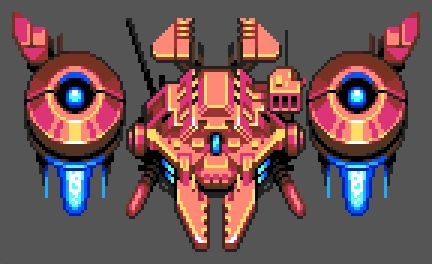
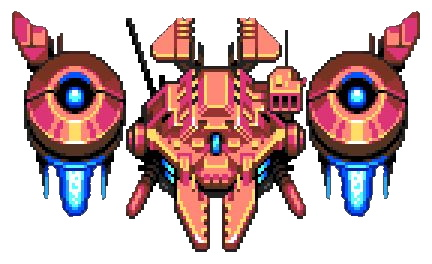
a

diff --git a/core/src/com/mygdx/game/characters/monster/boss/Boss1.java b/core/src/com/mygdx/game/characters/monster/boss/Boss1.java
@@ -10,19 +10,20 @@ import com.mygdx.game.characters.monster.Monster;
 public class Boss1 extends Monster {
 
     public Boss1(int x, int y, MyGdxGame gdx){
-        super(x,y,2,0 , 30, new Texture("mediumMonster.png"), 2 , 30,10 ,gdx,20);
+        super(x,y,2,0 , 30, new Texture("boss1.png"), 2 , 30,10 ,gdx,20);
     }
 
     @Override
     public Bullet[] tirer() {
         Bullet[] BB = new Bullet[2];
-        BB[0] = new BulletBoss1(this.x , this.y, 5, 8);
-        BB[1] = new BulletBoss1(this.x + (texture.getWidth()/2), this.y, -5, 8);
+        BB[0] = new BulletBoss1(this.x + 25 , this.y +(texture.getHeight()/2), 5, -8);
+        BB[1] = new BulletBoss1(this.x + (texture.getWidth() /2)  +50, this.y +(texture.getHeight()/2), -5, -8);
         return BB;
     }
 
     public void update(){
-        if(this.x <= Gdx.graphics.getWidth() || this.x >= Gdx.graphics.getWidth()){
+        this.x += this.xspeed;
+        if(this.x >= Gdx.graphics.getWidth() - getTaillex() || this.x <= 0){
             this.xspeed = -this.xspeed;
         }
     }

diff --git a/core/src/com/mygdx/game/Playinggame.java b/core/src/com/mygdx/game/Playinggame.java
@@ -8,6 +8,7 @@ import com.mygdx.game.characters.monster.MediumMonster;
 import com.mygdx.game.characters.monster.Monster;
 import com.mygdx.game.characters.monster.MonstreJaponais;
 import com.mygdx.game.characters.monster.SmallMonster;
+import com.mygdx.game.characters.monster.boss.Boss1;
 import com.mygdx.game.powerUp.powerUp;
 
 import java.util.LinkedHashSet;
@@ -115,6 +116,7 @@ public class Playinggame {
                 else if (rand <= 100) {
                     m.add(new MonstreJaponais((Gdx.graphics.getWidth() - ((nbmonster-nbmonstertemp + 1) * (Gdx.graphics.getWidth() / (nbmonster + 1)))), Gdx.graphics.getHeight()-100, this.gdx));
                 }
+                //m.add(new Boss1(700, 800, this.gdx));
                 nbmonstertemp--;
             }
 

diff --git a/core/src/com/mygdx/game/bullet/Enemy/boss/BulletBoss1.java b/core/src/com/mygdx/game/bullet/Enemy/boss/BulletBoss1.java
@@ -8,11 +8,24 @@ public class BulletBoss1  extends BulletEnnemi {
     private int xdep;
 
     public BulletBoss1(int x, int y, int xspeed, int yspeed){
-        super(2,x,y,xspeed,yspeed,new Texture("laserRedShot.png"), 50);
+        super(2,x,y,xspeed,yspeed,new Texture("bulletBoss1.png"), 50);
         this.xdep = x;
     }
 
     public int getXdep() {
         return xdep;
+    }
+
+    @Override
+    public void updateBullet() {
+        if(this.x + (getTexture().getWidth() /2)<= this.getXdep() + 150|| this.x + (getTexture().getWidth() /2) >=this.getXdep() -150 ){
+            this.xspeed = -this.xspeed;
+        }
+
+        this.x += this.xspeed;
+        this.y += this.yspeed;
+
+
+
     }
 }

diff --git a/core/src/com/mygdx/game/MyGdxGame.java b/core/src/com/mygdx/game/MyGdxGame.java
@@ -47,11 +47,7 @@ public class MyGdxGame<DoubleProperty> extends ApplicationAdapter {
 		nbvague = 1;
 
 
-		for (int i = 0; i < nbmonster; i++) {
-			m.add(new SmallMonster(Gdx.graphics.getWidth() - ((i + 1) * (Gdx.graphics.getWidth() / (nbmonster + 1))), (int) (Gdx.graphics.getHeight() - Gdx.graphics.getHeight() * 0.3),this));
-		}
 
-		hero = new Hero(250, 250, 10, 10, 20, heroimg, 10,this);
 
 		//musique
 

diff --git a/core/src/com/mygdx/game/bullet/Bullet.java b/core/src/com/mygdx/game/bullet/Bullet.java
@@ -9,8 +9,8 @@ import com.mygdx.game.MyGdxGame;
 
 public class Bullet {
 
-    private int x;
-    private int y;
+    protected int x;
+    protected int y;
     public double degat;
     protected int yspeed;
     protected int xspeed;
